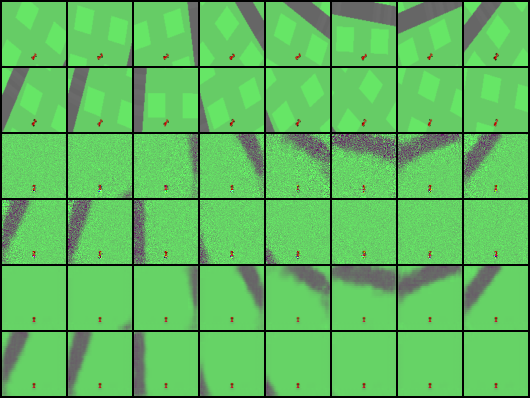
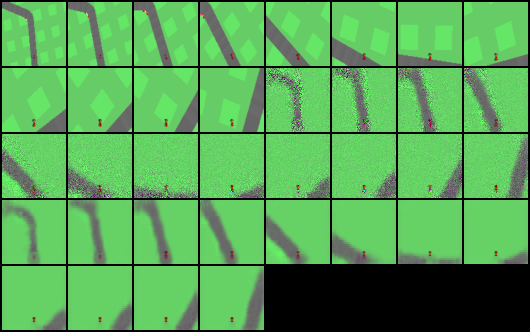
pushing 50 epochs of trainng from pretrained vae

diff --git a/execute_environment.py b/execute_environment.py
@@ -27,6 +27,9 @@ class EnvSimulator:
         self.env_name = env_name
         self.use_old_gym = use_old_gym
 
+        self.deterministic = True
+        self.use_lstm = False
+
         self.device = 'cpu' #torch.device('cuda' if torch.cuda.is_available() else 'cpu')
         self.return_events = return_events
         self.time_limit = time_limit
@@ -41,7 +44,7 @@ class EnvSimulator:
             self.vae = give_models['vae']
 
             # need to load in the cell based version!
-            self.mdrnn = MDRNNCell(LATENT_SIZE, ACTION_SIZE, LATENT_RECURRENT_SIZE, NUM_GAUSSIANS_IN_MDRNN).to(self.device)
+            self.mdrnn = MDRNN(LATENT_SIZE, ACTION_SIZE, LATENT_RECURRENT_SIZE, NUM_GAUSSIANS_IN_MDRNN, use_lstm=self.use_lstm).to(self.device)
             self.mdrnn.load_state_dict( 
                 {k.strip('_l0'): v for k, v in give_models['mdrnn'].state_dict.items()})
 
@@ -66,13 +69,19 @@ class EnvSimulator:
             self.vae = VAE(NUM_IMG_CHANNELS, LATENT_SIZE).to(self.device)
             self.vae.load_state_dict(vae_state['state_dict'])
 
-            self.mdrnn_full = MDRNN(LATENT_SIZE, ACTION_SIZE, LATENT_RECURRENT_SIZE, NUM_GAUSSIANS_IN_MDRNN, conditional=conditional ).to(self.device)
-            self.mdrnn_full.load_state_dict(rnn_state['state_dict'])
+            #
 
             print('loading in mdrnn from:', rnn_file, self.device)
-            self.mdrnn = MDRNNCell(LATENT_SIZE, ACTION_SIZE, LATENT_RECURRENT_SIZE, NUM_GAUSSIANS_IN_MDRNN, conditional=conditional).to(self.device)
-            self.mdrnn.load_state_dict(
-                {k.strip('_l0'): v for k, v in rnn_state['state_dict'].items()})
+            if self.deterministic:
+                self.mdrnn = MDRNN(LATENT_SIZE, ACTION_SIZE, LATENT_RECURRENT_SIZE, NUM_GAUSSIANS_IN_MDRNN, conditional=conditional, use_lstm=self.use_lstm).to(self.device)
+                self.mdrnn.load_state_dict(rnn_state['state_dict'])
+            else: 
+                self.mdrnn = MDRNNCell(LATENT_SIZE, ACTION_SIZE, LATENT_RECURRENT_SIZE, NUM_GAUSSIANS_IN_MDRNN, conditional=conditional).to(self.device)
+                self.mdrnn.load_state_dict(
+                    {k.strip('_l0'): v for k, v in rnn_state['state_dict'].items()})
+
+                self.mdrnn_full = MDRNN(LATENT_SIZE, ACTION_SIZE, LATENT_RECURRENT_SIZE, NUM_GAUSSIANS_IN_MDRNN, conditional=conditional ).to(self.device)
+                self.mdrnn_full.load_state_dict(rnn_state['state_dict'])
 
         self.num_action_repeats = num_action_repeats
         # the real horizon 
@@ -129,7 +138,10 @@ class EnvSimulator:
 
         action = self.planner(latent_s, hidden, reward)
 
-        _, _, _, _, _, next_hidden = self.mdrnn(action, latent_s, hidden, reward)
+        if self.deterministic:
+            _, _, _, _, _, next_hidden = self.mdrnn(action, latent_s, reward, last_hidden=hidden)
+        else: 
+            _, _, _, _, _, next_hidden = self.mdrnn(action, latent_s, hidden, reward)
         
         return action.squeeze().cpu().numpy(), next_hidden
 
@@ -168,10 +180,13 @@ class EnvSimulator:
 
                     # sample an action and reward.
                     ens_action = self.sample_cross_entropy_method() 
-                    md_mus, md_sigmas, md_logpi, ens_reward, d, ens_full_hidden = mdrnn_boot(ens_action, ens_latent_s, ens_full_hidden, ens_reward)
-                    
-                    # predict the next latent state
-                    ens_latent_s = sample_mdrnn_latent(md_mus, md_sigmas, md_logpi, ens_latent_s)
+                    if self.deterministic: 
+                        md_mus, md_sigmas, md_logpi, ens_reward, d, ens_full_hidden = mdrnn_boot(ens_action, ens_latent_s, ens_reward, last_hidden=ens_full_hidden)
+                        ens_latent_s = ens_latent_s + md_mus
+                    else: 
+                        md_mus, md_sigmas, md_logpi, ens_reward, d, ens_full_hidden = mdrnn_boot(ens_action, ens_latent_s, ens_full_hidden, ens_reward)
+                        # predict the next latent state
+                        ens_latent_s = sample_mdrnn_latent(md_mus, md_sigmas, md_logpi, ens_latent_s)
 
                     # store these cumulative rewards and action
                     all_particles_sequential_actions[start_ind:end_ind, t, :] = ens_action
@@ -304,13 +319,13 @@ class EnvSimulator:
                 obs, reward, done, _ = self.env.step(action)
                 cumulative += reward
 
-                if len(sim_rewards) <50:
+                if len(sim_rewards) <40:
                     sim_rewards.append(reward)
                 else: 
                     sim_rewards.pop(0)
                     sim_rewards.append(reward)
                     #print('lenght of sim rewards',  len(sim_rewards),round(sum(sim_rewards),3))
-                    if round(sum(sim_rewards), 3) == -5.0:
+                    if round(sum(sim_rewards), 3) == -4.0:
                         done=True 
 
                 if self.use_old_gym:

diff --git a/joint_utils.py b/joint_utils.py
@@ -8,7 +8,8 @@ from os import mkdir, unlink, listdir, getpid
 import torch
 import torch.utils.data
 from torchvision import transforms
-import gym 
+import gym
+from bisect import bisect
 from utils.misc import ACTION_SIZE, LATENT_RECURRENT_SIZE, LATENT_SIZE
 import time
 from execute_environment import EnvSimulator
@@ -49,7 +50,6 @@ class GeneratedDataset(torch.utils.data.Dataset):
         rollout_index = bisect(self._cum_size, i) - 1 # because it finds the index to the right of the element. 
         # within a specific rollout. will linger on one rollout for a while iff random sampling not used. 
         seq_index = i - self._cum_size[rollout_index] # references the previous file length. so normalizes to within this file's length. 
-        
         obs_data = self.data['obs'][rollout_index][seq_index:seq_index + self._seq_len + 1]
         if self._transform:
             obs_data = self._transform(obs_data.astype(np.float32))

diff --git a/models/mdrnn.py b/models/mdrnn.py
@@ -119,10 +119,10 @@ class MDRNN(_MDRNNBase):
             outs = torch.relu(self.forward3(outs))
             latent_deltas = self.forward4(outs)
 
-            print('ins', ins.shape)
+            #print('ins', ins.shape)
             next_rewards = self.reward_model(ins)
             next_rewards = next_rewards.squeeze(-1)
-            print('next rewards shape', next_rewards.shape)
+            #print('next rewards shape', next_rewards.shape)
 
             if len(outs.shape) ==2:
                 return latent_deltas, torch.zeros((2,2,2)), torch.zeros((2,2,2)), next_rewards, torch.zeros((2,2,2)), (torch.zeros((2,2,2)),torch.zeros((2,2,2)))

diff --git a/trainmdrnn.py b/trainmdrnn.py
@@ -9,7 +9,7 @@ from utils.misc import sample_mdrnn_latent, generate_samples
 def get_loss(mdrnn, latent_obs, latent_next_obs, 
              pres_action, pres_reward, 
              next_reward, terminal, device,
-             include_reward = True, include_overshoot=True, 
+             include_reward = True, include_overshoot=False, 
              include_terminal = False, deterministic=True):
     # TODO: I thought for the car racer we werent predicting terminal states 
     # and also in general that we werent predicting the reward of the next state. 
